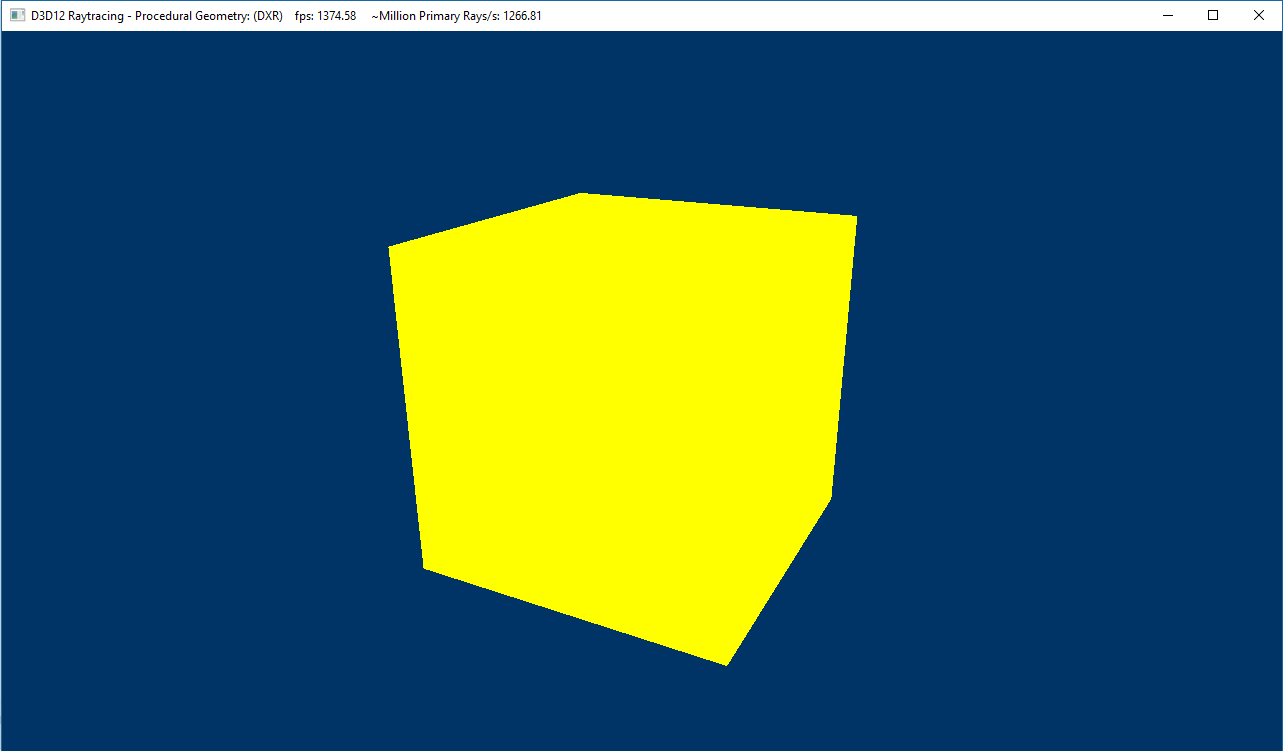
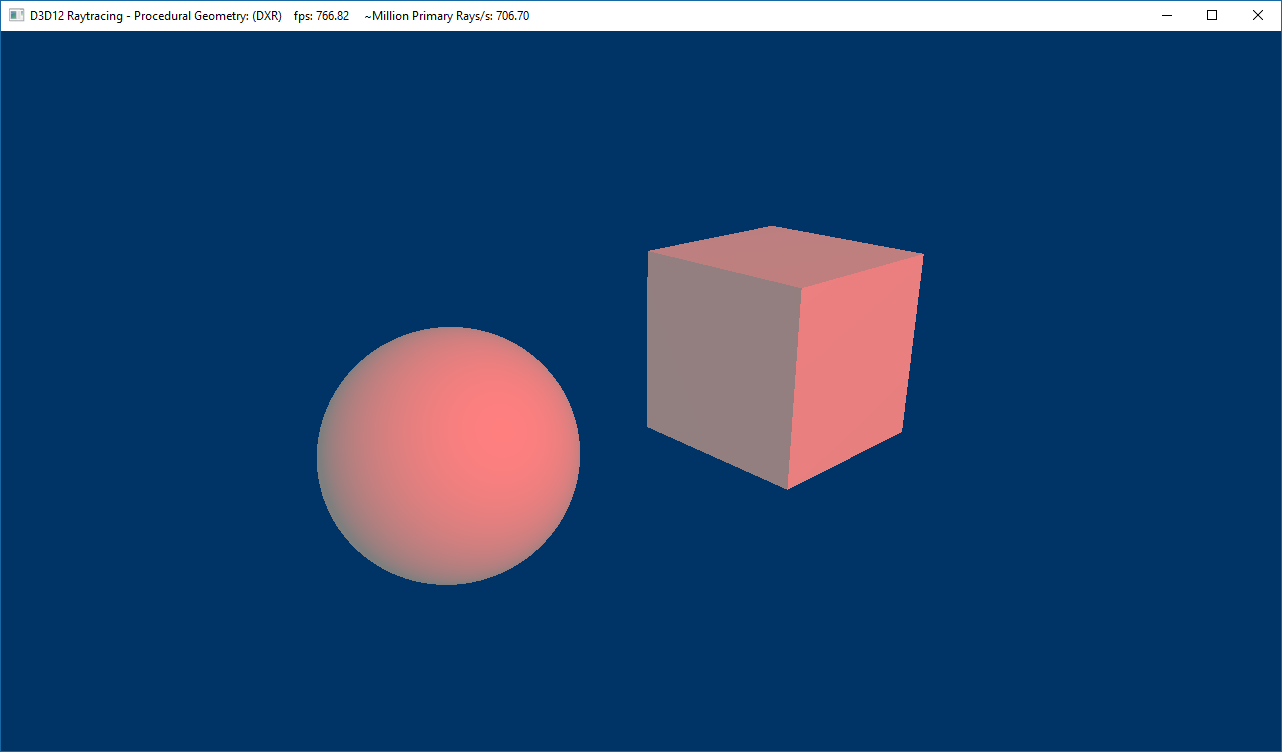
Added a sphere to the procedural geometry sample. (#300)

Changed region(s): [[0.2496, 0.245, 0.7176, 0.8881], [0.0, 0.0, 0.4368, 0.0306], [0.0, 0.98, 0.0312, 1.0]]

diff --git a/Samples/Desktop/D3D12Raytracing/src/D3D12RaytracingProceduralGeometry/D3D12RaytracingProceduralGeometry.cpp b/Samples/Desktop/D3D12Raytracing/src/D3D12RaytracingProceduralGeometry/D3D12RaytracingProceduralGeometry.cpp
@@ -108,7 +108,7 @@ void D3D12RaytracingProceduralGeometry::InitializeScene()
     // Setup camera.
     {
         // Initialize the view and projection inverse matrices.
-        m_eye = { 0.0f, 2.0f, -5.0f, 1.0f };
+        m_eye = { 0.0f, 3.0f, -7.5f, 1.0f };
         m_at = { 0.0f, 0.0f, 0.0f, 1.0f };
         XMVECTOR right = { 1.0f, 0.0f, 0.0f, 0.0f };
 
@@ -130,7 +130,7 @@ void D3D12RaytracingProceduralGeometry::InitializeScene()
         XMFLOAT4 lightAmbientColor;
         XMFLOAT4 lightDiffuseColor;
 
-        lightPosition = XMFLOAT4(0.0f, 1.8f, -3.0, 0.0f);
+        lightPosition = XMFLOAT4(0.0f, 18.0f, -30.0f, 0.0f);
         m_sceneCB[frameIndex].lightPosition = XMLoadFloat4(&lightPosition);
 
         lightAmbientColor = XMFLOAT4(0.5f, 0.5f, 0.5f, 1.0f);
@@ -418,7 +418,11 @@ void D3D12RaytracingProceduralGeometry::BuildGeometry()
 {
     auto device = m_deviceResources->GetD3DDevice();
 #if USE_AABB_GEOMETRY
-    D3D12_RAYTRACING_AABB aabb = { -1,-1,-1,1,1,1 };
+
+    D3D12_RAYTRACING_AABB aabb[1] = 
+    { 
+        {-2,-2,-2,2,2,2 }
+    };
     AllocateUploadBuffer(device, &aabb, sizeof(aabb), &m_aabbBuffer.resource);
     CreateBufferSRV(&m_aabbBuffer, 1, sizeof(aabb));
 #else
@@ -529,6 +533,7 @@ void D3D12RaytracingProceduralGeometry::BuildAccelerationStructures()
     D3D12_RAYTRACING_ACCELERATION_STRUCTURE_PREBUILD_INFO topLevelPrebuildInfo = {};
     prebuildInfoDesc.Type = D3D12_RAYTRACING_ACCELERATION_STRUCTURE_TYPE_TOP_LEVEL;
     prebuildInfoDesc.pGeometryDescs = nullptr;
+    prebuildInfoDesc.NumDescs = 2;
     if (m_raytracingAPI == RaytracingAPI::FallbackLayer)
     {
         m_fallbackDevice->GetRaytracingAccelerationStructurePrebuildInfo(&prebuildInfoDesc, &topLevelPrebuildInfo);
@@ -542,6 +547,7 @@ void D3D12RaytracingProceduralGeometry::BuildAccelerationStructures()
     D3D12_RAYTRACING_ACCELERATION_STRUCTURE_PREBUILD_INFO bottomLevelPrebuildInfo = {};
     prebuildInfoDesc.Type = D3D12_RAYTRACING_ACCELERATION_STRUCTURE_TYPE_BOTTOM_LEVEL;
     prebuildInfoDesc.pGeometryDescs = &geometryDesc;
+    prebuildInfoDesc.NumDescs = 1;
     if (m_raytracingAPI == RaytracingAPI::FallbackLayer)
     {
         m_fallbackDevice->GetRaytracingAccelerationStructurePrebuildInfo(&prebuildInfoDesc, &bottomLevelPrebuildInfo);
@@ -592,22 +598,34 @@ void D3D12RaytracingProceduralGeometry::BuildAccelerationStructures()
     ComPtr<ID3D12Resource> instanceDescs;
     if (m_raytracingAPI == RaytracingAPI::FallbackLayer)
     {
-        D3D12_RAYTRACING_FALLBACK_INSTANCE_DESC instanceDesc = {};
-        instanceDesc.Transform[0] = instanceDesc.Transform[5] = instanceDesc.Transform[10] = 1;
-        instanceDesc.InstanceMask = 1;
+        D3D12_RAYTRACING_FALLBACK_INSTANCE_DESC instanceDesc[2] = {};
+        instanceDesc[0].Transform[0] = instanceDesc[0].Transform[5] = instanceDesc[0].Transform[10] = 1;
+        instanceDesc[0].Transform[3] = 2.0f;
+
+        instanceDesc[1].Transform[0] = instanceDesc[1].Transform[5] = instanceDesc[1].Transform[10] = 1;
+        instanceDesc[1].Transform[3] = -2.0f;
+        instanceDesc[0].InstanceMask = 1;
+        instanceDesc[0].InstanceMask = 1;
+        instanceDesc[1].InstanceMask = 1;
         UINT numBufferElements = static_cast<UINT>(bottomLevelPrebuildInfo.ResultDataMaxSizeInBytes) / sizeof(UINT32);
-        instanceDesc.AccelerationStructure = CreateFallbackWrappedPointer(m_bottomLevelAccelerationStructure.Get(), numBufferElements);
-        AllocateUploadBuffer(device, &instanceDesc, sizeof(instanceDesc), &instanceDescs, L"InstanceDescs");
+        instanceDesc[0].AccelerationStructure = CreateFallbackWrappedPointer(m_bottomLevelAccelerationStructure.Get(), numBufferElements);
+        instanceDesc[1].AccelerationStructure = instanceDesc[0].AccelerationStructure;
+        AllocateUploadBuffer(device, instanceDesc, sizeof(instanceDesc), &instanceDescs, L"InstanceDescs");
     }
     else // DirectX Raytracing
     {
-        D3D12_RAYTRACING_INSTANCE_DESC instanceDesc = {};
-        instanceDesc.Transform[0] = instanceDesc.Transform[5] = instanceDesc.Transform[10] = 1;
-        instanceDesc.InstanceMask = 1;
-        instanceDesc.AccelerationStructure = m_bottomLevelAccelerationStructure->GetGPUVirtualAddress();
+        D3D12_RAYTRACING_INSTANCE_DESC instanceDesc[2] = {};
+        instanceDesc[0].Transform[0] = instanceDesc[0].Transform[5] = instanceDesc[0].Transform[10] = 1;
+        instanceDesc[0].Transform[3] = 2.0f;
+
+        instanceDesc[1].Transform[0] = instanceDesc[1].Transform[5] = instanceDesc[1].Transform[10] = 1;
+        instanceDesc[1].Transform[3] = -2.0f;
+        instanceDesc[0].InstanceMask = 1;
+        instanceDesc[1].InstanceMask = 1;
+        instanceDesc[0].AccelerationStructure = m_bottomLevelAccelerationStructure->GetGPUVirtualAddress();
+        instanceDesc[1].AccelerationStructure = instanceDesc[0].AccelerationStructure;
         AllocateUploadBuffer(device, &instanceDesc, sizeof(instanceDesc), &instanceDescs, L"InstanceDescs");
     }
-
     // Create a wrapped pointer to the acceleration structure.
     if (m_raytracingAPI == RaytracingAPI::FallbackLayer)
     {
@@ -632,7 +650,7 @@ void D3D12RaytracingProceduralGeometry::BuildAccelerationStructures()
     {
         topLevelBuildDesc.Type = D3D12_RAYTRACING_ACCELERATION_STRUCTURE_TYPE_TOP_LEVEL;
         topLevelBuildDesc.DestAccelerationStructureData = { m_topLevelAccelerationStructure->GetGPUVirtualAddress(), topLevelPrebuildInfo.ResultDataMaxSizeInBytes };
-        topLevelBuildDesc.NumDescs = 1;
+        topLevelBuildDesc.NumDescs = 2;
         topLevelBuildDesc.pGeometryDescs = nullptr;
         topLevelBuildDesc.InstanceDescs = instanceDescs->GetGPUVirtualAddress();
         topLevelBuildDesc.ScratchAccelerationStructureData = { scratchResource->GetGPUVirtualAddress(), scratchResource->GetDesc().Width };

diff --git a/Samples/Desktop/D3D12Raytracing/src/D3D12RaytracingSimpleLighting/D3D12RaytracingSimpleLighting.cpp b/Samples/Desktop/D3D12Raytracing/src/D3D12RaytracingSimpleLighting/D3D12RaytracingSimpleLighting.cpp
@@ -129,7 +129,7 @@ void D3D12RaytracingSimpleLighting::InitializeScene()
         XMFLOAT4 lightAmbientColor;
         XMFLOAT4 lightDiffuseColor;
 
-        lightPosition = XMFLOAT4(0.0f, 1.8f, -3.0, 0.0f);
+        lightPosition = XMFLOAT4(0.0f, 1.8f, -3.0f, 0.0f);
         m_sceneCB[frameIndex].lightPosition = XMLoadFloat4(&lightPosition);
 
         lightAmbientColor = XMFLOAT4(0.5f, 0.5f, 0.5f, 1.0f);
